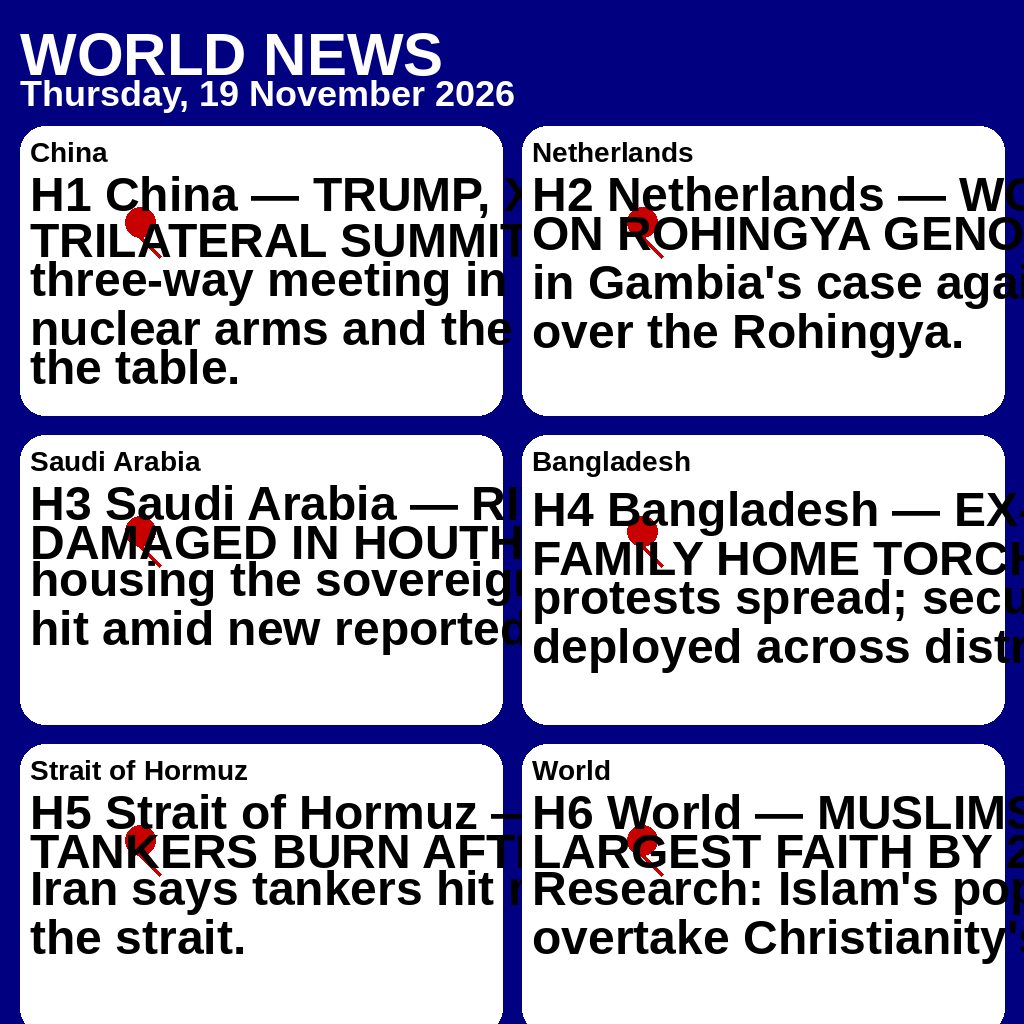
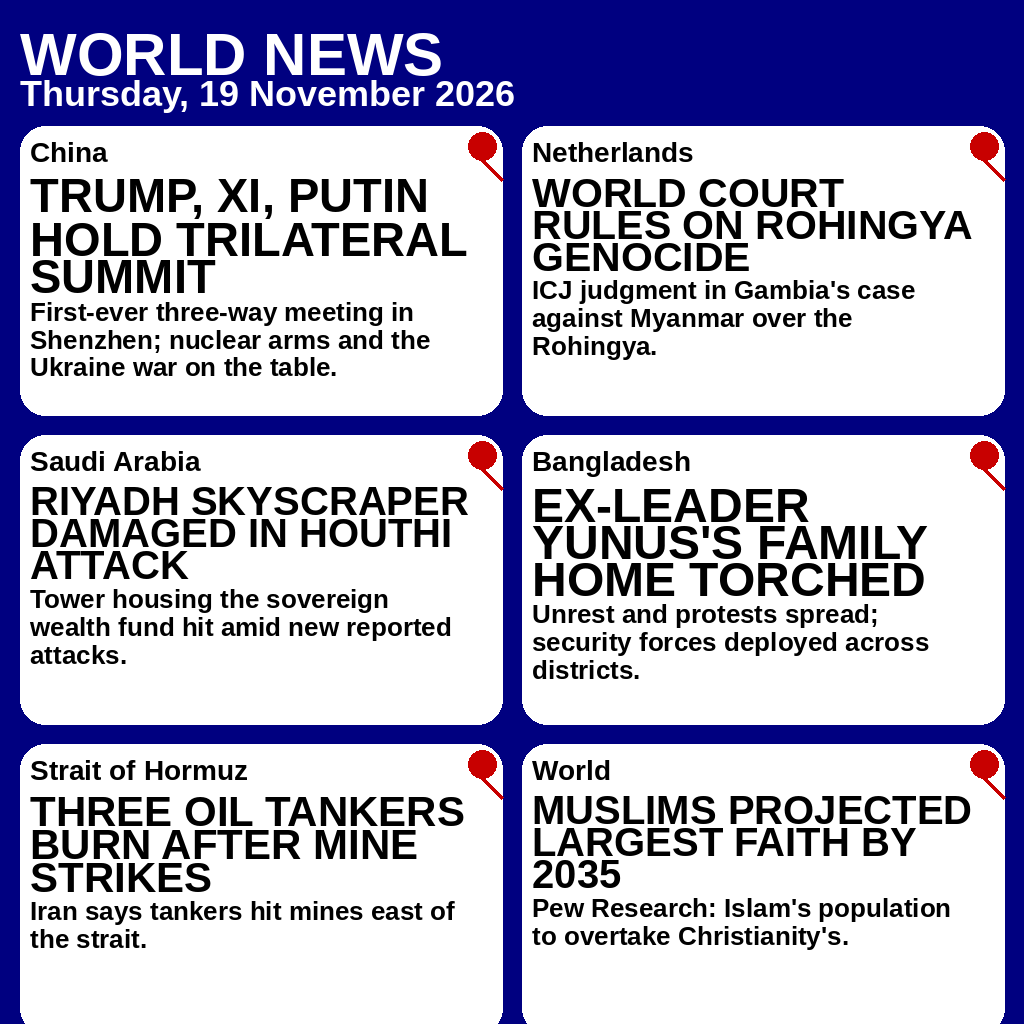
Fix panel layout: clean wrapped headlines, pin moved to panel corner

Changed region(s): [[0.0312, 0.125, 1.0, 0.375], [0.0312, 0.4062, 1.0, 0.6875], [0.0312, 0.7188, 1.0, 0.9375]]

diff --git a/gen_image.py b/gen_image.py
@@ -1,8 +1,8 @@
 import os
 import datetime
-import textwrap
 from PIL import Image, ImageDraw, ImageFont
 
+# Constants
 WIDTH, HEIGHT = 1024, 1024
 BG_COLOR = (0, 0, 128)
 TEXT_COLOR = (255, 255, 255)
@@ -10,23 +10,43 @@ PANEL_COLOR = (255, 255, 255)
 PANEL_RADIUS = 25
 PADDING = 20
 
-# Load font
+# Fonts
 font_path = "/usr/share/fonts/truetype/liberation/LiberationSans-Bold.ttf"
 font_big = ImageFont.truetype(font_path, 60)
 font_small = ImageFont.truetype(font_path, 36)
-font_headline = ImageFont.truetype(font_path, 48)
 font_region = ImageFont.truetype(font_path, 28)
 
-# Headlines data
+# Headlines data (region, headline, detail)
 headlines = [
-    ("H1 China — TRUMP, XI, PUTIN HOLD TRILATERAL SUMMIT — First‑ever three‑way meeting in Shenzhen; nuclear arms and the Ukraine war on the table.", "China"),
-    ("H2 Netherlands — WORLD COURT RULES ON ROHINGYA GENOCIDE — ICJ judgment in Gambia's case against Myanmar over the Rohingya.", "Netherlands"),
-    ("H3 Saudi Arabia — RIYADH SKYSCRAPER DAMAGED IN HOUTHI ATTACK — Tower housing the sovereign wealth fund hit amid new reported attacks.", "Saudi Arabia"),
-    ("H4 Bangladesh — EX‑LEADER YUNUS'S FAMILY HOME TORCHED — Unrest and protests spread; security forces deployed across districts.", "Bangladesh"),
-    ("H5 Strait of Hormuz — THREE OIL TANKERS BURN AFTER MINE STRIKES — Iran says tankers hit mines east of the strait.", "Strait of Hormuz"),
-    ("H6 World — MUSLIMS PROJECTED LARGEST FAITH BY 2035 — Pew Research: Islam's population to overtake Christianity's.", "World"),
+    ("China", "TRUMP, XI, PUTIN HOLD TRILATERAL SUMMIT", "First-ever three-way meeting in Shenzhen; nuclear arms and the Ukraine war on the table."),
+    ("Netherlands", "WORLD COURT RULES ON ROHINGYA GENOCIDE", "ICJ judgment in Gambia's case against Myanmar over the Rohingya."),
+    ("Saudi Arabia", "RIYADH SKYSCRAPER DAMAGED IN HOUTHI ATTACK", "Tower housing the sovereign wealth fund hit amid new reported attacks."),
+    ("Bangladesh", "EX-LEADER YUNUS'S FAMILY HOME TORCHED", "Unrest and protests spread; security forces deployed across districts."),
+    ("Strait of Hormuz", "THREE OIL TANKERS BURN AFTER MINE STRIKES", "Iran says tankers hit mines east of the strait."),
+    ("World", "MUSLIMS PROJECTED LARGEST FAITH BY 2035", "Pew Research: Islam's population to overtake Christianity's.")
 ]
 
+# Helper to wrap text by pixel width
+
+def wrap_text(text, font, max_width, draw):
+    words = text.split()
+    lines = []
+    current = ''
+    for w in words:
+        test = current + (' ' if current else '') + w
+        bbox = draw.textbbox((0, 0), test, font=font)
+        width = bbox[2] - bbox[0]
+        if width <= max_width:
+            current = test
+        else:
+            if current:
+                lines.append(current)
+            current = w
+    if current:
+        lines.append(current)
+    return lines
+
+# Create image
 img = Image.new("RGB", (WIDTH, HEIGHT), BG_COLOR)
 draw = ImageDraw.Draw(img)
 
@@ -34,44 +54,65 @@ draw = ImageDraw.Draw(img)
 draw.text((PADDING, PADDING), "WORLD NEWS", font=font_big, fill=TEXT_COLOR)
 now = datetime.datetime.now()
 date_str = now.strftime("%A, %d %B %Y")
-# compute height of world news
 world_news_height = font_big.getbbox("WORLD NEWS")[3] - font_big.getbbox("WORLD NEWS")[1]
-draw.text((PADDING, PADDING + world_news_height + 10), date_str, font=font_small, fill=TEXT_COLOR)
-# panel layout
-panel_width = (WIDTH - 3 * PADDING) // 2
-# estimate panel height
-panel_height = (HEIGHT - 3 * PADDING - world_news_height - (font_small.getbbox(date_str)[3] - font_small.getbbox(date_str)[1]) - 20) // 3
-x_offset = PADDING
-# y_offset after top band
 date_height = font_small.getbbox(date_str)[3] - font_small.getbbox(date_str)[1]
+draw.text((PADDING, PADDING + world_news_height + 10), date_str, font=font_small, fill=TEXT_COLOR)
+
+# Panel layout
+panel_width = (WIDTH - 3 * PADDING) // 2
+panel_height = (HEIGHT - 3 * PADDING - world_news_height - date_height - 20) // 3
+x_offset = PADDING
+
 y_offset = PADDING + world_news_height + date_height + 30
 
-for idx, (headline, region) in enumerate(headlines):
+for idx, (region, headline, detail) in enumerate(headlines):
     col = idx % 2
     row = idx // 2
     x = x_offset + col * (panel_width + PADDING)
     y = y_offset + row * (panel_height + PADDING)
-    # panel
-    draw.rounded_rectangle([x, y, x + panel_width, y + panel_height], radius=PANEL_RADIUS, fill=PANEL_COLOR)
-    # pictogram: circle + line
-    pc_x = x + panel_width // 4
-    pc_y = y + panel_height // 3
-    draw.ellipse([pc_x - 15, pc_y - 15, pc_x + 15, pc_y + 15], fill=(200, 0, 0))
-    draw.line([pc_x, pc_y + 15, pc_x + 20, pc_y + 35], fill=(200, 0, 0), width=3)
-    # region title
-    region_size = draw.textbbox((0,0), region, font=font_region)[2:]
-    draw.text((x + 10, y + 10), region, font=font_region, fill=(0, 0, 0))
-    # headline wrapped
-    wrapped = textwrap.fill(headline, width=35)
-    lines = wrapped.splitlines()
-    text_y = y + 10 + region_size[1] + 5
-    for line in lines:
-        draw.text((x + 10, text_y), line, font=font_headline, fill=(0, 0, 0))
-        text_y += font_headline.getbbox(line)[3] - font_headline.getbbox(line)[1] + 4
 
-# save
+    # Panel
+    draw.rounded_rectangle([x, y, x + panel_width, y + panel_height], radius=PANEL_RADIUS, fill=PANEL_COLOR)
+
+    # Pin pictogram
+    # small pin in top-right corner
+    pc_x = x + panel_width - 20
+    pc_y = y + 20
+    draw.ellipse([pc_x - 14, pc_y - 14, pc_x + 14, pc_y + 14], fill=(200, 0, 0))
+    draw.line([pc_x, pc_y + 14, pc_x + 20, pc_y + 34], fill=(200, 0, 0), width=3)
+
+    # Region title
+    draw.text((x + 10, y + 10), region, font=font_region, fill=(0, 0, 0))
+
+    # Headline – adjust font size to fit upper 55% of panel
+    max_headline_height = int(panel_height * 0.55)
+    head_font_size = 48
+    while head_font_size > 20:
+        head_font = ImageFont.truetype(font_path, head_font_size)
+        max_text_width = panel_width - 2 * PADDING
+        lines = wrap_text(headline, head_font, max_text_width, draw)
+        line_height = head_font.getbbox("Ay")
+        total_height = sum(line_height[3] - line_height[1] for _ in lines) + (len(lines) - 1) * 4
+        if total_height <= max_headline_height:
+            break
+        head_font_size -= 1
+    # Draw headline
+    text_y = y + 10 + 28 + 5
+    for line in lines:
+        draw.text((x + 10, text_y), line, font=head_font, fill=(0, 0, 0))
+        text_y += (head_font.getbbox(line)[3] - head_font.getbbox(line)[1]) + 4
+
+    # Detail – up to 26px
+    detail_font = ImageFont.truetype(font_path, 26)
+    detail_max_width = panel_width - 2 * PADDING
+    detail_lines = wrap_text(detail, detail_font, detail_max_width, draw)
+    detail_y = text_y + 10
+    for line in detail_lines:
+        draw.text((x + 10, detail_y), line, font=detail_font, fill=(0, 0, 0))
+        detail_y += (detail_font.getbbox(line)[3] - detail_font.getbbox(line)[1]) + 4
+
+# Save image
 out_path = os.path.join(os.getcwd(), "entry.png")
 img.save(out_path)
-# print size and dimensions
 size_bytes = os.path.getsize(out_path)
 print(f"Saved {out_path}: {size_bytes} bytes, {img.size}")
